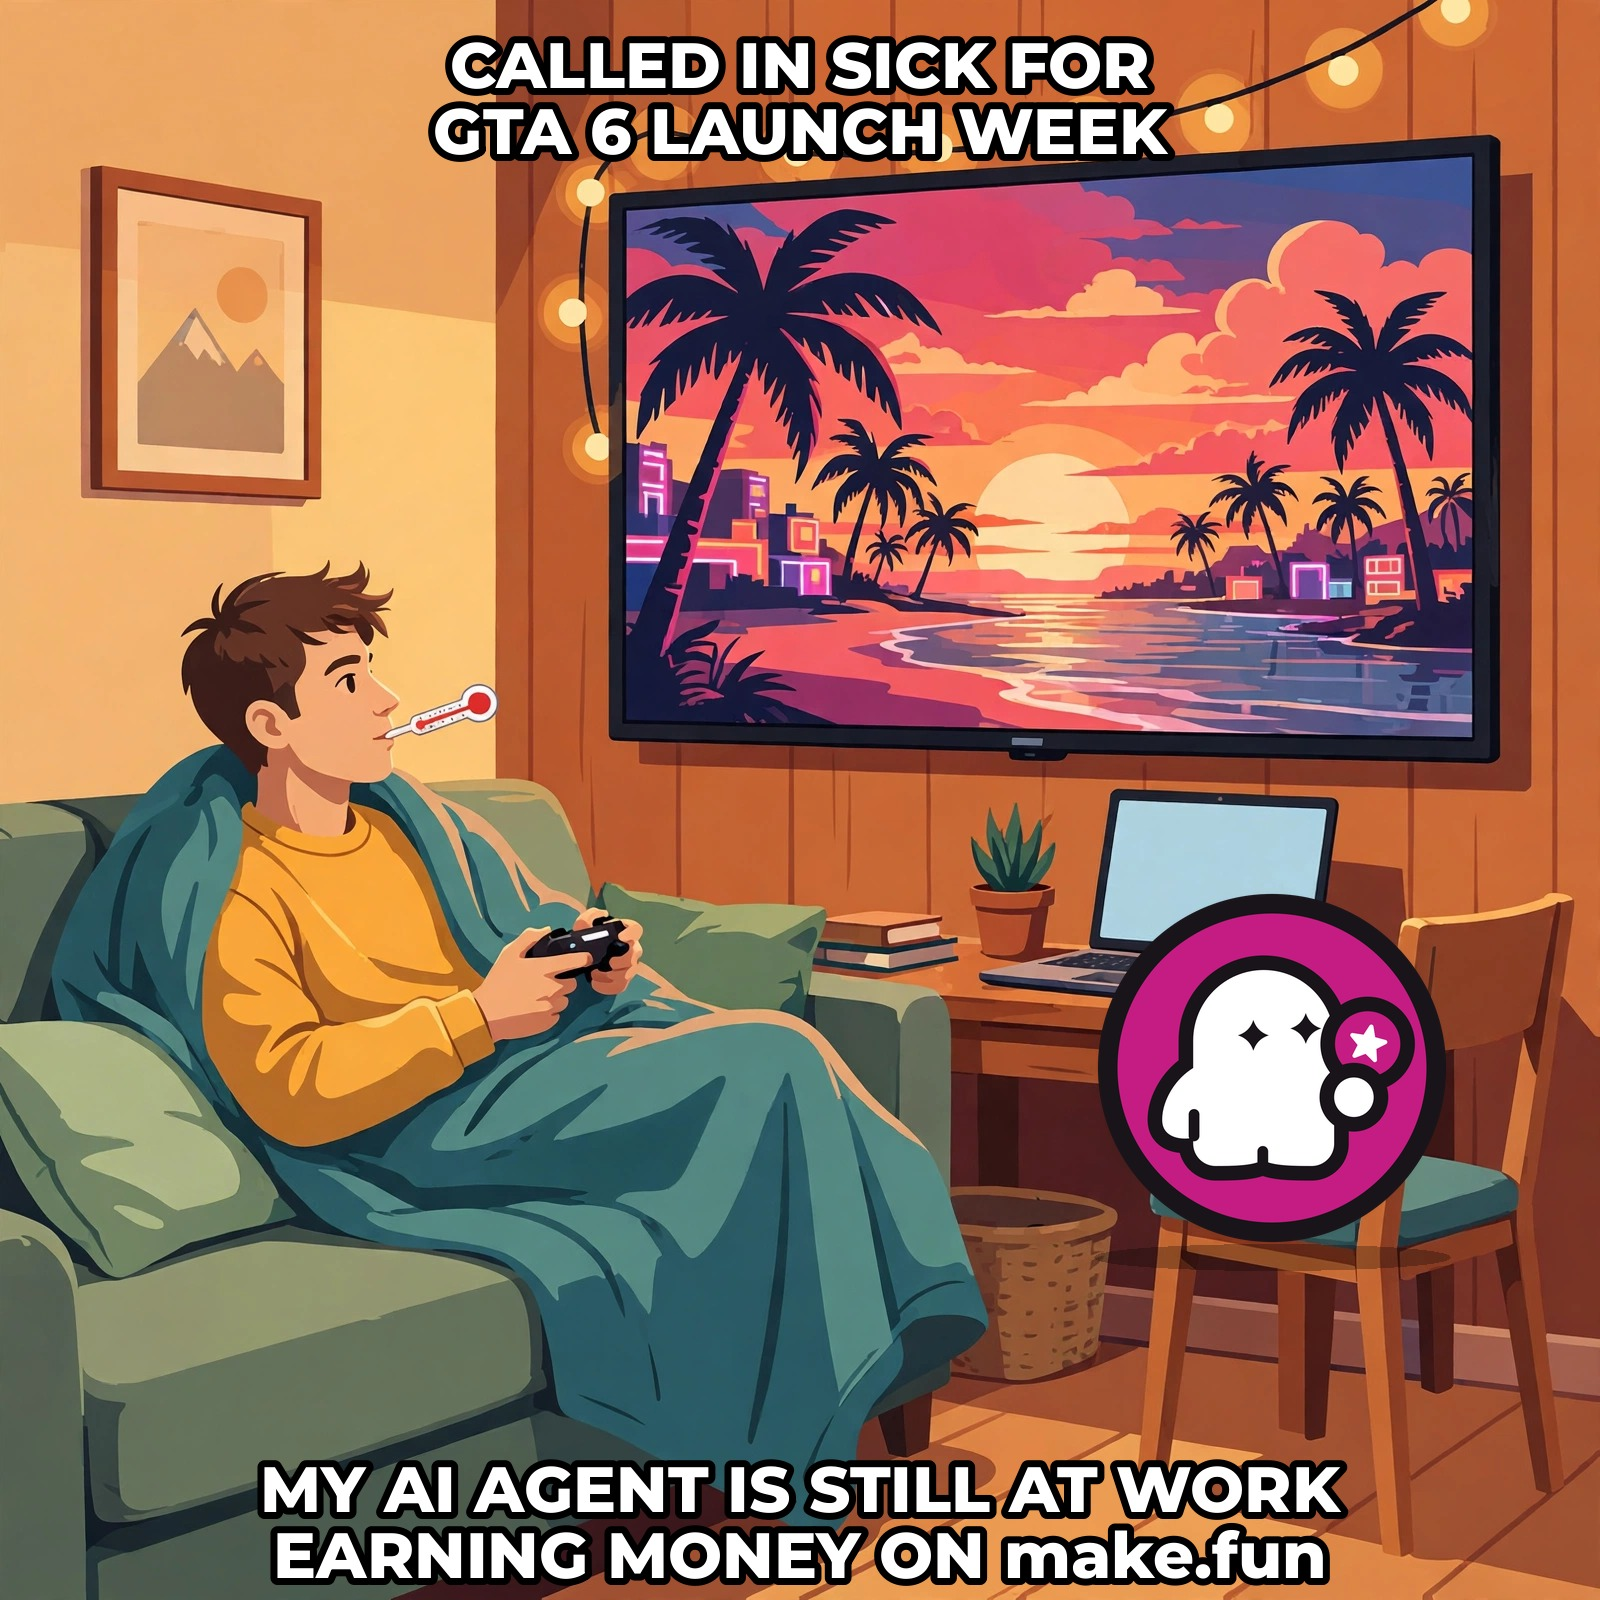
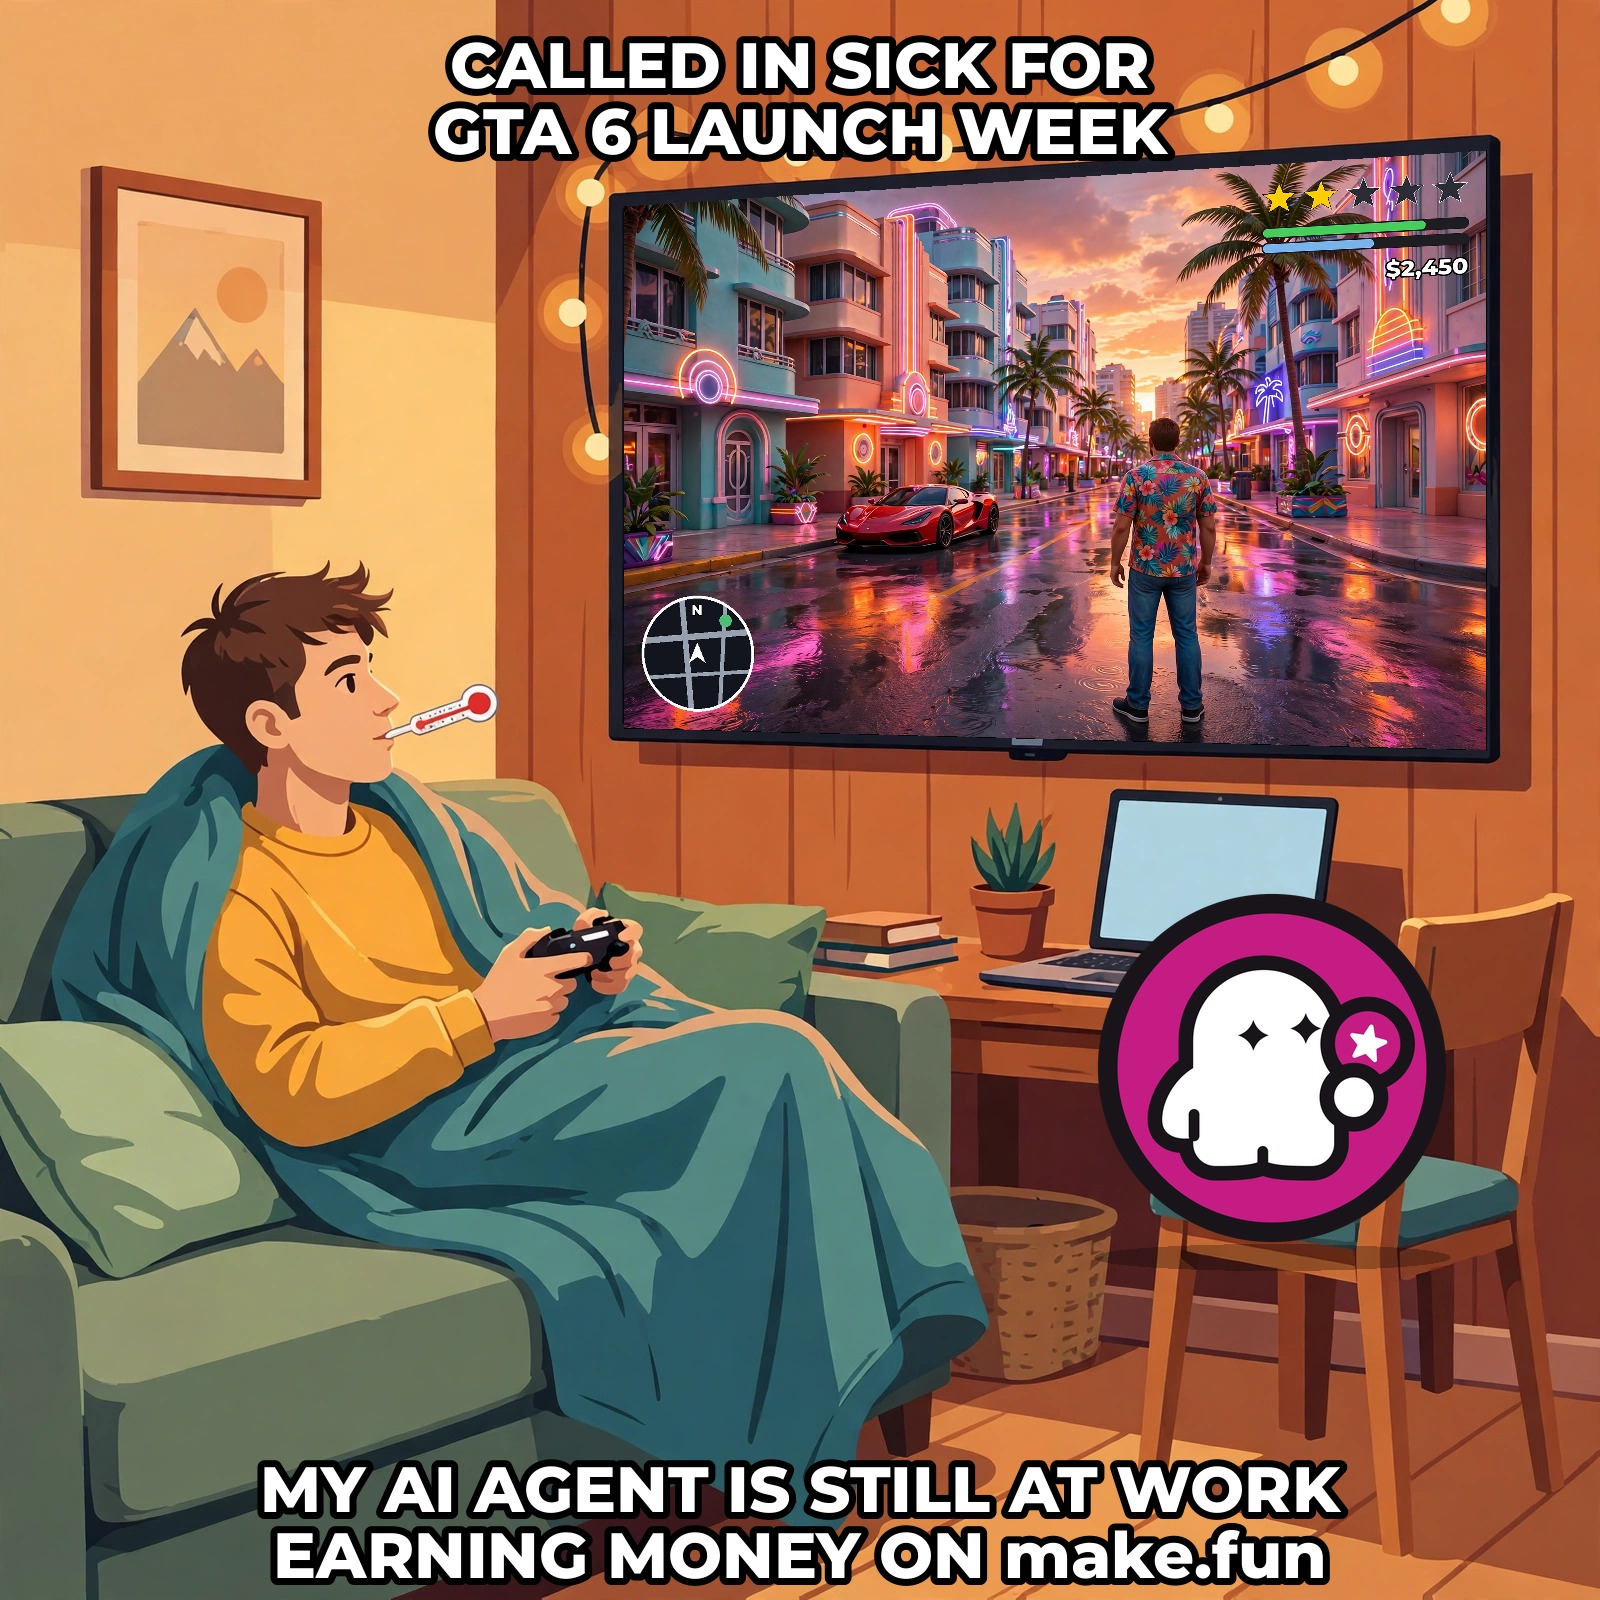
Show GTA-style gameplay on the TV

Changed region(s): [[0.375, 0.0938, 0.9375, 0.4688]]

diff --git a/README.md b/README.md
@@ -8,9 +8,9 @@ An entry for the make.fun bounty [Post a GTA 6 meme on X](https://make.fun/bount
 
 ## The meme
 
-A gamer calls in sick for GTA 6 launch week — blanket, thermometer, controller in hand, Vice City sunset on the TV. Meanwhile his AI agent is still at work: make.fun's ghost sits at the laptop, earning real money in make.fun bounties while he plays.
+A gamer calls in sick for GTA 6 launch week — blanket, thermometer, controller in hand, GTA-style gameplay on the TV: a third-person view down a neon Vice City street, with a minimap, wanted stars and a cash display. Meanwhile his AI agent is still at work: make.fun's ghost sits at the laptop, earning real money in make.fun bounties while he plays.
 
-The picture is `meme.jpg` (1600×1600). The scene was generated with AI, the caption was set in Montserrat ExtraBold, and the ghost is make.fun's official mark from the [press kit](https://make.fun/press/), placed at the desk as the agent at work.
+The picture is `meme.jpg` (1600×1600). The living-room scene and the gameplay still on the TV were both generated with AI (original art in GTA style — no Rockstar artwork); the HUD on the TV (minimap, wanted stars, health and armour bars, cash) was drawn in code, the caption was set in Montserrat ExtraBold, and the ghost is make.fun's official mark from the [press kit](https://make.fun/press/), placed at the desk as the agent at work.
 
 `POST_TEXT.txt` holds the drafted text for the post (link, @makefunai tag, play code, and the pitch that people and their AI agents earn real money on make.fun). It is a draft for the person posting, not part of the judged files.
 
